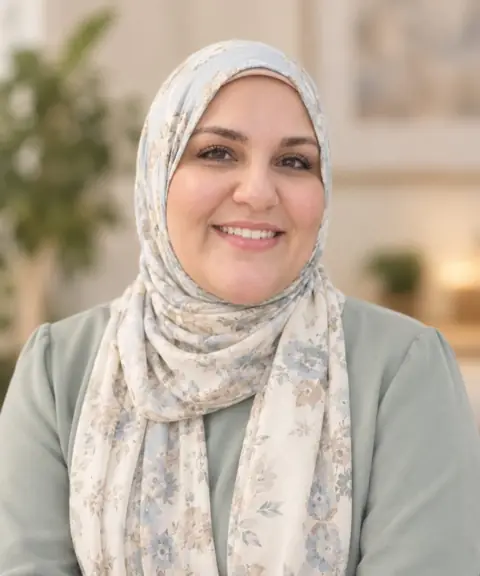
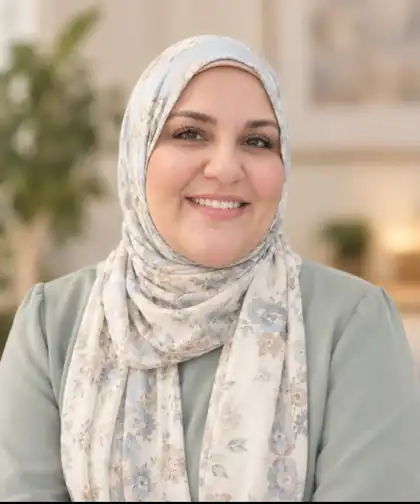
content: replace Dr Dina portrait across site

Changed region(s): [[0.0, 0.9821, 1.0, 1.0]]

diff --git a/app/page.tsx b/app/page.tsx
@@ -36,7 +36,7 @@ export default function Page(){
  <footer className="siteFooter unifiedFooter"><div className="unifiedFooterTop"><button className="unifiedFooterBrand" onClick={()=>go("home")}>ILAMA <em>BLOOM</em></button><nav aria-label="Footer"><button onClick={()=>go("learn")}>{ar?"استكشفي":"Explore"}</button><button onClick={()=>go("atlas")}>{ar?"أطلس الأكل":"Food Atlas"}</button><button onClick={()=>go("journal")}>{ar?"اليوميات":"Journal"}</button><button onClick={()=>go("about")}>{ar?"عن الموقع":"About"}</button></nav></div><div className="unifiedFooterBottom"><span>{ar?"أكل · جسم · سياق":"FOOD · BODY · CONTEXT"}</span><small>© 2026 ILAMA BLOOM</small><button onClick={()=>scrollTo({top:0,behavior:"smooth"})}>{ar?"للأعلى ↑":"BACK TO TOP ↑"}</button></div></footer></main>
 }
 function SiteMap({go,ar}:{go:(v:View)=>void;ar:boolean}){const groups:[string,[string,string,View][]][]=ar?[["استكشف",[["استكشف","تصفح أدلة الأكل والصحة","learn"],["الأطفال والألعاب","تعلّم الكربوهيدرات بطريقة مرحة","kids"],["دليل الأكل","مراجع لأكلات مصرية مألوفة","atlas"],["العدسة","احسب من بطاقة الطعام","lens"]]],["مساحتك",[["سجل سريع","احفظ حاجة تستحق تفتكرها","log"],["اليوميات","راجع اللي سجلته","journal"],["تجهيز الزيارة","جهّز المعلومات والأسئلة المفيدة","visit"]]],["عن ILAMA BLOOM",[["الرئيسية","ارجع للبداية","home"],["عن ILAMA BLOOM","الفكرة وراء ILAMA BLOOM","about"]]]]:[["DISCOVER",[["Explore","Browse food and health guides","learn"],["Kids & Games","Playful carbohydrate learning","kids"],["Food Atlas","Egyptian food references","atlas"],["Lens","Calculate from a food label","lens"]]],["YOUR SPACE",[["Quick Log","Save something worth remembering","log"],["Journal","Review what you saved","journal"],["Visit","Prepare useful context and questions","visit"]]],["ILAMA BLOOM",[["Home","Back to the start","home"],["About","The idea behind Ilama Bloom","about"]]]];return <section className="siteMapPage"><div className="siteMapHero"><small>{ar?"كل ILAMA BLOOM":"ALL OF ILAMA BLOOM"}</small><h1>{ar?<>كل حاجة،<br/><em>سهلة تلاقيها.</em></>:<>Everything,<br/><em>easy to find.</em></>}</h1><p>{ar?"روح مباشرة لأي جزء في ILAMA BLOOM.":"Jump directly to any part of Ilama Bloom."}</p></div><div className="siteMapGrid">{groups.map(([title,links])=><section key={title}><span>{title}</span>{links.map(([name,desc,to])=><button key={name} onClick={()=>go(to)}><b>{name}</b><p>{desc}</p><i>{ar?"←":"→"}</i></button>)}</section>)}</div></section>}
-function Home({go,entries,ar}:{go:(v:View)=>void;entries:Entry[];ar:boolean}){const last=entries[0];return <><section className="rootedHero"><div className="rootedHeroPhoto"><img src="https://images.pexels.com/photos/1640774/pexels-photo-1640774.jpeg?auto=compress&cs=tinysrgb&w=1600" alt="Fresh colorful food on a table"/></div><div className="rootedHeroCopy"><small>{ar?"تغذية للحياة الحقيقية":"NUTRITION FOR REAL LIFE"}</small><h1>{ar?<>ممكن فعلًا<br/><em>تفهمي أكلك.</em></>:<>Feel at home<br/><em>with food.</em></>}</h1><p>{ar?"Ilama Bloom مساحة هادئة تساعدك تفهمي التغذية، تتعرفي على الأكل المألوف، وتحفظي التفاصيل اللي تهمك من غير تعقيد.":"Ilama Bloom is a calmer place to understand nutrition, explore familiar food and keep the details that matter — without the noise."}</p><button onClick={()=>go("learn")}>{ar?"ابدئي الاستكشاف":"START EXPLORING"}</button></div></section><section className="rootedIntro"><small>{ar?"لو المعلومات الصحية حاساها كتير...":"IF HEALTH INFORMATION FEELS LIKE A LOT..."}</small><h2>{ar?<>مش محتاجة معلومات أكتر.<br/><em>محتاجة المعلومات تبقى أوضح.</em></>:<>You don't need more noise.<br/><em>You need a clearer way through it.</em></>}</h2><p>{ar?"بدل ما تبقي كل وجبة مسألة حسابية، بنقسم المعلومة لخطوات صغيرة: افهمي، قارني، سجلي اللي يهمك، وخديه معاكي لما تحتاجيه.":"Instead of turning every meal into a calculation, we break things into useful steps: understand, compare, remember what matters, and bring it with you when you need it."}</p></section><section className="rootedResults"><div className="rootedSectionHead"><small>{ar?"ILAMA BLOOM يساعدك على":"ILAMA BLOOM HELPS YOU"}</small><h2>{ar?"خلي الصحة أقرب للحياة اليومية.":"Make health feel more usable."}</h2></div><div className="rootedResultGrid"><button onClick={()=>go("learn")}><span>01</span><h3>{ar?"افهمي التغذية":"Understand nutrition"}</h3></button><button onClick={()=>go("atlas")}><span>02</span><h3>{ar?"اعرفي أكلك":"Know familiar food"}</h3></button><button onClick={()=>go("log")}><span>03</span><h3>{ar?"سجلي اللي يهمك":"Remember what matters"}</h3></button><button onClick={()=>go("kids")}><span>04</span><h3>{ar?"خلي التعلم ممتع":"Learn through play"}</h3></button><button onClick={()=>go("visit")}><span>05</span><h3>{ar?"جهزي للزيارة":"Prepare for visits"}</h3></button></div></section><section className="rootedWays"><div className="rootedRibbon">{ar?"• اختاري نقطة البداية • اختاري نقطة البداية •":"• FIND YOUR PLACE TO START • FIND YOUR PLACE TO START •"}</div><div className="rootedWayGrid"><article><img src="https://images.pexels.com/photos/1092730/pexels-photo-1092730.jpeg?auto=compress&cs=tinysrgb&w=1000" alt="Fresh fruit"/><small>{ar?"01 · استكشفي":"01 · EXPLORE"}</small><h3>{ar?"تعلمي من غير دوشة.":"Nutrition, made readable."}</h3><p>{ar?"موضوعات واضحة عن الأكل والكربوهيدرات والمصطلحات الصحية اليومية.":"Clear guides for food, carbohydrates and everyday health language."}</p><button onClick={()=>go("learn")}>{ar?"استكشفي":"EXPLORE"} →</button></article><article><img src="https://images.pexels.com/photos/1640770/pexels-photo-1640770.jpeg?auto=compress&cs=tinysrgb&w=1000" alt="Everyday meal ingredients"/><small>{ar?"02 · أطلس الأكل":"02 · FOOD ATLAS"}</small><h3>{ar?"ابدئي بالأكل اللي تعرفيه.":"Start with food you know."}</h3><p>{ar?"أطعمة مألوفة وكميات وسياق يساعدك تفهمي الطبق الحقيقي قدامك.":"Familiar foods, portions and context for the plate actually in front of you."}</p><button onClick={()=>go("atlas")}>{ar?"افتحي الأطلس":"OPEN THE ATLAS"} →</button></article><article><img src="https://images.pexels.com/photos/4050990/pexels-photo-4050990.jpeg?auto=compress&cs=tinysrgb&w=1000" alt="Journal and healthy lifestyle"/><small>{ar?"03 · يومك":"03 · YOUR DAY"}</small><h3>{ar?"مش لازم تفتكري كل حاجة.":"Your memory can take a break."}</h3><p>{ar?"سجلي الوجبات والمياه والنوم والأسئلة والتفاصيل اللي تحبي ترجعي لها.":"Keep meals, water, sleep, questions and useful details together."}</p><button onClick={()=>go("log")}>{ar?"سجلي حاجة":"LOG SOMETHING"} →</button></article></div></section><section className="rootedFounder"><div className="rootedFounderPhoto"><img src="/dina-hassan-about.webp?v=1" alt="Dr. Dina Hassan"/></div><div className="rootedFounderCopy"><small>{ar?"قابلي د. دينا":"MEET DR. DINA"}</small><h2>{ar?<>القلب الطبي<br/><em>وراء Ilama Bloom.</em></>:<>The clinical heart<br/><em>behind Ilama Bloom.</em></>}</h2><p>{ar?"د. دينا حسن، طبيبة أطفال وتغذية علاجية، تركيزها إن المعرفة الصحية تبقى مفهومة وعملية وقريبة من حياة الأسرة الحقيقية.":"Dr. Dina Hassan is a pediatrician and clinical nutritionist focused on making health education understandable, practical and closer to real family life."}</p><button onClick={()=>go("about")}>{ar?"اعرفي أكتر":"MEET DINA"} →</button></div></section><section className="rootedDaily"><div><small>{ar?"مساحتك اليومية":"YOUR EVERYDAY SPACE"}</small><h2>{ar?"خلي التفاصيل في مكان واحد.":"Keep the useful details together."}</h2><p>{last?(ar?`آخر حاجة اتسجلت: ${last.type} · ${last.value}`:`Last logged: ${last.type} · ${last.value}`):(ar?"ابدئي بسجل صغير، وارجعي له وقت ما تحتاجيه.":"Start with one small note and come back when you need it.")}</p></div><div><button onClick={()=>go("log")}>{ar?"＋ سجل سريع":"＋ QUICK LOG"}</button><button onClick={()=>go("journal")}>{ar?"اليوميات":"JOURNAL"}</button><button onClick={()=>go("visit")}>{ar?"تجهيز الزيارة":"VISIT PREP"}</button></div></section><section className="rootedFinal"><small>{ar?"جاهزة تبدأي؟":"READY WHEN YOU ARE"}</small><h2>{ar?<>خطوة صغيرة<br/><em>تفرق في يومك.</em></>:<>One small step.<br/><em>A clearer day.</em></>}</h2><p>{ar?"ابدئي من الأكل، أو من معلومة، أو من حاجة عاوزة تفتكريها.":"Start with food, a question, or one detail you want to remember."}</p><button onClick={()=>go("learn")}>{ar?"ابدئي هنا":"START HERE"}</button></section></>}
+function Home({go,entries,ar}:{go:(v:View)=>void;entries:Entry[];ar:boolean}){const last=entries[0];return <><section className="rootedHero"><div className="rootedHeroPhoto"><img src="https://images.pexels.com/photos/1640774/pexels-photo-1640774.jpeg?auto=compress&cs=tinysrgb&w=1600" alt="Fresh colorful food on a table"/></div><div className="rootedHeroCopy"><small>{ar?"تغذية للحياة الحقيقية":"NUTRITION FOR REAL LIFE"}</small><h1>{ar?<>ممكن فعلًا<br/><em>تفهمي أكلك.</em></>:<>Feel at home<br/><em>with food.</em></>}</h1><p>{ar?"Ilama Bloom مساحة هادئة تساعدك تفهمي التغذية، تتعرفي على الأكل المألوف، وتحفظي التفاصيل اللي تهمك من غير تعقيد.":"Ilama Bloom is a calmer place to understand nutrition, explore familiar food and keep the details that matter — without the noise."}</p><button onClick={()=>go("learn")}>{ar?"ابدئي الاستكشاف":"START EXPLORING"}</button></div></section><section className="rootedIntro"><small>{ar?"لو المعلومات الصحية حاساها كتير...":"IF HEALTH INFORMATION FEELS LIKE A LOT..."}</small><h2>{ar?<>مش محتاجة معلومات أكتر.<br/><em>محتاجة المعلومات تبقى أوضح.</em></>:<>You don't need more noise.<br/><em>You need a clearer way through it.</em></>}</h2><p>{ar?"بدل ما تبقي كل وجبة مسألة حسابية، بنقسم المعلومة لخطوات صغيرة: افهمي، قارني، سجلي اللي يهمك، وخديه معاكي لما تحتاجيه.":"Instead of turning every meal into a calculation, we break things into useful steps: understand, compare, remember what matters, and bring it with you when you need it."}</p></section><section className="rootedResults"><div className="rootedSectionHead"><small>{ar?"ILAMA BLOOM يساعدك على":"ILAMA BLOOM HELPS YOU"}</small><h2>{ar?"خلي الصحة أقرب للحياة اليومية.":"Make health feel more usable."}</h2></div><div className="rootedResultGrid"><button onClick={()=>go("learn")}><span>01</span><h3>{ar?"افهمي التغذية":"Understand nutrition"}</h3></button><button onClick={()=>go("atlas")}><span>02</span><h3>{ar?"اعرفي أكلك":"Know familiar food"}</h3></button><button onClick={()=>go("log")}><span>03</span><h3>{ar?"سجلي اللي يهمك":"Remember what matters"}</h3></button><button onClick={()=>go("kids")}><span>04</span><h3>{ar?"خلي التعلم ممتع":"Learn through play"}</h3></button><button onClick={()=>go("visit")}><span>05</span><h3>{ar?"جهزي للزيارة":"Prepare for visits"}</h3></button></div></section><section className="rootedWays"><div className="rootedRibbon">{ar?"• اختاري نقطة البداية • اختاري نقطة البداية •":"• FIND YOUR PLACE TO START • FIND YOUR PLACE TO START •"}</div><div className="rootedWayGrid"><article><img src="https://images.pexels.com/photos/1092730/pexels-photo-1092730.jpeg?auto=compress&cs=tinysrgb&w=1000" alt="Fresh fruit"/><small>{ar?"01 · استكشفي":"01 · EXPLORE"}</small><h3>{ar?"تعلمي من غير دوشة.":"Nutrition, made readable."}</h3><p>{ar?"موضوعات واضحة عن الأكل والكربوهيدرات والمصطلحات الصحية اليومية.":"Clear guides for food, carbohydrates and everyday health language."}</p><button onClick={()=>go("learn")}>{ar?"استكشفي":"EXPLORE"} →</button></article><article><img src="https://images.pexels.com/photos/1640770/pexels-photo-1640770.jpeg?auto=compress&cs=tinysrgb&w=1000" alt="Everyday meal ingredients"/><small>{ar?"02 · أطلس الأكل":"02 · FOOD ATLAS"}</small><h3>{ar?"ابدئي بالأكل اللي تعرفيه.":"Start with food you know."}</h3><p>{ar?"أطعمة مألوفة وكميات وسياق يساعدك تفهمي الطبق الحقيقي قدامك.":"Familiar foods, portions and context for the plate actually in front of you."}</p><button onClick={()=>go("atlas")}>{ar?"افتحي الأطلس":"OPEN THE ATLAS"} →</button></article><article><img src="https://images.pexels.com/photos/4050990/pexels-photo-4050990.jpeg?auto=compress&cs=tinysrgb&w=1000" alt="Journal and healthy lifestyle"/><small>{ar?"03 · يومك":"03 · YOUR DAY"}</small><h3>{ar?"مش لازم تفتكري كل حاجة.":"Your memory can take a break."}</h3><p>{ar?"سجلي الوجبات والمياه والنوم والأسئلة والتفاصيل اللي تحبي ترجعي لها.":"Keep meals, water, sleep, questions and useful details together."}</p><button onClick={()=>go("log")}>{ar?"سجلي حاجة":"LOG SOMETHING"} →</button></article></div></section><section className="rootedFounder"><div className="rootedFounderPhoto"><img src="/dina-hassan-about.webp?v=2" alt="Dr. Dina Hassan"/></div><div className="rootedFounderCopy"><small>{ar?"قابلي د. دينا":"MEET DR. DINA"}</small><h2>{ar?<>القلب الطبي<br/><em>وراء Ilama Bloom.</em></>:<>The clinical heart<br/><em>behind Ilama Bloom.</em></>}</h2><p>{ar?"د. دينا حسن، طبيبة أطفال وتغذية علاجية، تركيزها إن المعرفة الصحية تبقى مفهومة وعملية وقريبة من حياة الأسرة الحقيقية.":"Dr. Dina Hassan is a pediatrician and clinical nutritionist focused on making health education understandable, practical and closer to real family life."}</p><button onClick={()=>go("about")}>{ar?"اعرفي أكتر":"MEET DINA"} →</button></div></section><section className="rootedDaily"><div><small>{ar?"مساحتك اليومية":"YOUR EVERYDAY SPACE"}</small><h2>{ar?"خلي التفاصيل في مكان واحد.":"Keep the useful details together."}</h2><p>{last?(ar?`آخر حاجة اتسجلت: ${last.type} · ${last.value}`:`Last logged: ${last.type} · ${last.value}`):(ar?"ابدئي بسجل صغير، وارجعي له وقت ما تحتاجيه.":"Start with one small note and come back when you need it.")}</p></div><div><button onClick={()=>go("log")}>{ar?"＋ سجل سريع":"＋ QUICK LOG"}</button><button onClick={()=>go("journal")}>{ar?"اليوميات":"JOURNAL"}</button><button onClick={()=>go("visit")}>{ar?"تجهيز الزيارة":"VISIT PREP"}</button></div></section><section className="rootedFinal"><small>{ar?"جاهزة تبدأي؟":"READY WHEN YOU ARE"}</small><h2>{ar?<>خطوة صغيرة<br/><em>تفرق في يومك.</em></>:<>One small step.<br/><em>A clearer day.</em></>}</h2><p>{ar?"ابدئي من الأكل، أو من معلومة، أو من حاجة عاوزة تفتكريها.":"Start with food, a question, or one detail you want to remember."}</p><button onClick={()=>go("learn")}>{ar?"ابدئي هنا":"START HERE"}</button></section></>}
 function Learn({go,ar}:{go:(v:View)=>void;ar:boolean}){type Guide={id:string;eyebrow_en:string;eyebrow_ar:string;title_en:string;title_ar:string;body_en:string;body_ar:string;practical_en:string;practical_ar:string};const [q,setQ]=useState(""),[active,setActive]=useState<string|null>(null),[dbGuides,setDbGuides]=useState<Guide[]>([]),[source,setSource]=useState<"database"|"fallback"|"loading">("loading");useEffect(()=>{let alive=true;fetch("/api/learning-guides").then(r=>r.ok?r.json():null).then(data=>{if(!alive)return;if(Array.isArray(data?.guides)&&data.guides.length){setDbGuides(data.guides);setSource(data.source==="database"?"database":"fallback")}else setSource("fallback")}).catch(()=>alive&&setSource("fallback"));return()=>{alive=false}},[]);const fallback:Guide[]=[{id:"carbs",eyebrow_en:"CARBS",eyebrow_ar:"كربوهيدرات",title_en:"Carbohydrates, without the drama.",title_ar:"الكربوهيدرات من غير تعقيد.",body_en:"Start with what the food contains and the portion.",body_ar:"ابدأ بمكونات الأكل والكمية.",practical_en:"Bread, rice, fruit, milk and legumes can contribute carbohydrate.",practical_ar:"العيش والأرز والفاكهة واللبن والبقوليات ممكن تضيف كربوهيدرات."}];const records=dbGuides.length?dbGuides:fallback;const guides=records.map(g=>({id:g.id,eyebrow:ar?g.eyebrow_ar:g.eyebrow_en,title:ar?g.title_ar:g.title_en,body:ar?g.body_ar:g.body_en,practical:ar?g.practical_ar:g.practical_en}));const needle=q.trim().toLowerCase();const shown=guides.filter(g=>[g.eyebrow,g.title,g.body,g.practical].join(" ").toLowerCase().includes(needle));return <section className="page"><div className="pageHero"><small>{ar?"استكشف":"EXPLORE"}</small><h1>{ar?<>وصل للمعلومة<br/><em>من غير دوشة.</em></>:<>Find the answer<br/><em>without the noise.</em></>}</h1><p>{ar?"اختار نقطة بداية أو ابحث بكلمات بسيطة.":"Choose a starting point or search in plain language."}</p><div className="topicSearch"><span>⌕</span><input aria-label={ar?"ابحث في الموضوعات":"Search topics"} value={q} onChange={e=>setQ(e.target.value)} placeholder={ar?"جرّب: كربوهيدرات، أكل، تحاليل...":"Try carbs, food, labs..."}/>{q&&<button aria-label={ar?"امسح البحث":"Clear search"} onClick={()=>setQ("")}>×</button>}</div></div><div className="exploreStarts"><button type="button" onClick={()=>setQ(ar?"كربوهيدرات":"carb")}>{ar?"🍞 كربوهيدرات":"🍞 Carbs"}</button><button type="button" onClick={()=>setQ(ar?"أكل":"food")}>{ar?"🥗 أكل يومي":"🥗 Everyday food"}</button><button type="button" onClick={()=>setQ(ar?"تحاليل":"labs")}>{ar?"🧪 تحاليل":"🧪 Labs"}</button><button type="button" onClick={()=>go("kids")}>{ar?"أطفال":"Kids"}</button></div><div className="resultMeta" aria-live="polite">{q?(ar?`${shown.length} نتيجة`:`${shown.length} result${shown.length===1?"":"s"}`):(ar?`${guides.length} أدلة`:`${guides.length} guides`)} · {source==="database"?(ar?"مكتبة محدثة":"live library"):(ar?"وضع احتياطي":"fallback")}</div><div className="libraryGrid">{shown.length?shown.map((g,i)=><article className={active===g.id?"opened":""} key={g.id}><span>0{i+1}</span><small>{g.eyebrow}</small><h2>{g.title}</h2><p>{g.body}</p>{active===g.id&&<div className="guideDetail"><b>{ar?"خلّيه عملي":"Make it practical"}</b><p>{g.practical}</p></div>}<button aria-expanded={active===g.id} onClick={()=>setActive(active===g.id?null:g.id)}>{active===g.id?(ar?"اقفل ↑":"Close ↑"):(ar?"افتح الدليل →":"Open guide →")}</button></article>):<div className="empty emptyState"><b>{ar?"مفيش دليل مطابق.":"No guide found."}</b><p>{ar?"جرّب كلمات زي أكل أو كربوهيدرات أو تحاليل.":"Try “food”, “carbs” or “labs”."}</p><button onClick={()=>setQ("")}>{ar?"اعرض كل الأدلة":"Show all guides"}</button></div>}</div><div className="exploreBridge"><div><small>{ar?"خليه مفيد":"MAKE IT USEFUL"}</small><h2>{ar?"التعلّم بيكون أسهل لما تفتكر السياق.":"Learning is better when you can remember the context."}</h2></div><button onClick={()=>go("log")}>{ar?"سجّل حاجة ←":"Log something →"}</button></div></section>}
 
 function Lens({add,go,ar}:{add:(t:string,v:string)=>void;go:(v:View)=>void;ar:boolean}){const [serving,setServing]=useState("30"),[carbs,setCarbs]=useState(""),[basis,setBasis]=useState("100"),[saved,setSaved]=useState(false);const result=useMemo(()=>{if(!carbs.trim()||!serving.trim()||!basis.trim())return null;const a=Number(carbs),b=Number(serving),c=Number(basis);return Number.isFinite(a)&&Number.isFinite(b)&&Number.isFinite(c)&&a>=0&&b>0&&c>0?a*b/c:null},[carbs,serving,basis]);const remember=()=>{if(result===null)return;add("Food label",`Label: ${carbs} g carbohydrate per ${basis} g; portion ${serving} g ≈ ${result.toFixed(1)} g carbohydrate`);setSaved(true)};return <section className="page lensPage"><div className="pageHero compactHero"><small>{ar?"عدسة ILAMA BLOOM · بطاقة الطعام":"ILAMA BLOOM LENS · LABEL MODE"}</small><h1>{ar?<>حوّل البطاقة<br/><em>لمعلومة مفهومة.</em></>:<>Turn a label into<br/><em>something readable.</em></>}</h1><p>{ar?"اكتب الأرقام الموجودة على العبوة. ILAMA BLOOM يحسب الكمية فقط.":"Enter the numbers printed on the pack. Ilama Bloom does the portion arithmetic — nothing more."}</p></div><div className="lensLayout"><div className="lensCard"><div className="lensStep"><span>1</span><div><b>{ar?"الكربوهيدرات على البطاقة":"Label carbohydrate"}</b><small>{ar?"استخدم إجمالي الكربوهيدرات، مش السكريات.":"Use “Total Carbohydrate”, not sugars."}</small></div></div><label>{ar?"الكربوهيدرات":"Carbohydrate"} <div><input inputMode="decimal" value={carbs} onChange={e=>setCarbs(e.target.value)} placeholder="e.g. 68"/><span>g</span></div></label><label>{ar?"أساس البطاقة":"Label basis"} <div><input inputMode="decimal" value={basis} onChange={e=>setBasis(e.target.value)} /><span>g</span></div></label><div className="lensStep"><span>2</span><div><b>{ar?"الكميّة بتاعتك":"Your portion"}</b><small>{ar?"اكتب الكمية اللي عاوز تحسبها.":"Enter the amount you plan to use for the calculation."}</small></div></div><label>{ar?"الكمية":"Portion"} <div><input inputMode="decimal" value={serving} onChange={e=>setServing(e.target.value)} /><span>g</span></div></label></div><div className="lensResult"><small>{ar?"للكمية دي":"FOR THIS PORTION"}</small>{result!==null&&carbs!==""?<><strong>{result.toFixed(1)}<i>g</i></strong><h2>{ar?"كربوهيدرات":"carbohydrate"}</h2><p>{carbs} g × {serving} g ÷ {basis} g</p><button onClick={remember}>{saved?(ar?"✓ اتحفظ في اليوميات":"✓ Saved to journal"):(ar?"افتكر ده":"Remember this")}</button></>:<><strong>—</strong><h2>{ar?"اكتب قيم البطاقة":"Enter the label values"}</h2></>}<button className="textAction" onClick={()=>go("atlas")}>{ar?"استكشف الأكل المصري ←":"Explore Egyptian foods →"}</button></div></div><div className="lensNote"><b>{ar?"العدسة بتعمل إيه؟":"What Lens does"}</b><p>{ar?"بتحسب من الأرقام اللي انت بتدخلها. الوصفات والكميات والبطاقات بتختلف؛ العدسة لا تحسب الإنسولين أو الدواء أو قرارات العلاج.":"It calculates from the numbers you enter. Recipes, serving sizes and labels differ; Lens does not estimate insulin, medication or treatment."}</p></div></section>}
@@ -51,6 +51,6 @@ function Kids({ar,setAr,saveProgress}:{ar:boolean;setAr:(v:boolean)=>void;savePr
 function Log({add,go,ar}:{add:(t:string,v:string)=>void;go:(v:View)=>void;ar:boolean}){const [type,setType]=useState("Meal"),[value,setValue]=useState("");const types=[["Meal","🍽"],["Water","💧"],["Sleep","🌙"],["Medication","💊"],["Work / activity","🏃"],["Smoking","🚭"],["Condition","🩺"],["Previous operation","🏥"],["Feeling","🙂"],["Measurement","📏"],["Note","✎"]];const presets:{[k:string]:string[]}={"Meal":["Breakfast","Lunch","Dinner","Snack"],"Water":["1 glass","2 glasses","3 glasses"],"Sleep":["5 hours","6 hours","7 hours","8 hours"],"Smoking":["No","Yes"],"Feeling":["Good","Okay","Low energy"],"Work / activity":["Desk day","Active day","Exercise"]};const options=presets[type]||[];return <section className="page logPage"><div className="pageHero compactHero"><small>{ar?"سجل سريع":"QUICK LOG"}</small><h1>{ar?"افتكر حاجة واحدة.":"Remember one thing."}</h1><p>{ar?"من غير استبيان. اختار نوع، اكتب المهم، واحفظ.":"No questionnaire. Pick a category, add what matters, save."}</p></div><div className="logBox newLog"><div className="logProgress"><span className="done">1</span><i></i><span className={type?"done":""}>2</span><i></i><span className={value.trim()?"done":""}>3</span></div><p className="logHint">{ar?"بتسجل إيه؟":"What are you logging?"}</p><div className="typeTiles">{types.map(([x,icon])=><button className={type===x?"on":""} onClick={()=>{setType(x);setValue("")}} key={x}><b>{icon}</b><span>{ar?(typeLabels[x]||x):x}</span></button>)}</div>{options.length>0&&<><p className="logHint second">{ar?"اختيار سريع":"Quick pick"}</p><div className="quickPicks">{options.map(x=><button className={value===x?"on":""} onClick={()=>setValue(x)} key={x}>{ar?({Breakfast:"الفطار",Lunch:"الغدا",Dinner:"العشا",Snack:"سناك","1 glass":"كوباية","2 glasses":"كوبايتين","3 glasses":"3 كوبايات","5 hours":"5 ساعات","6 hours":"6 ساعات","7 hours":"7 ساعات","8 hours":"8 ساعات",No:"لأ",Yes:"آه",Good:"كويس",Okay:"ماشي","Low energy":"طاقة قليلة","Desk day":"يوم مكتب","Active day":"يوم حركة",Exercise:"تمرين"}[x]||x):x}</button>)}</div></>}<label className="logDetail"><span>{options.length?(ar?"ضيف تفصيلة لو مفيدة":"Add a detail if useful"):(ar?"ضيف التفاصيل":"Add the detail")}</span><textarea maxLength={180} value={value} onChange={e=>setValue(e.target.value)} placeholder={ar?"إيه اللي عاوز تفتكره عن "+(typeLabels[type]||type)+"؟":"What do you want to remember about "+type.toLowerCase()+"?"}/><small>{value.length}/180</small></label><p className="storageHint">{ar?"عند تسجيل الدخول، السجل بيتحفظ في حسابك ويظهر لك لما ترجع. تقدر تمسح اليوميات في أي وقت.":"When signed in, your log is saved to your account and loads again when you return. You can clear the journal at any time."}</p><div className="logActions"><button className="quiet" onClick={()=>go("journal")}>{ar?"إلغاء":"Cancel"}</button><button disabled={!value.trim()} className="save" onClick={()=>{if(!value.trim())return;add(type,value.trim().slice(0,180));setValue("");go("journal")}}>{ar?"احفظ في اليوميات ←":"Save to journal →"}</button></div></div></section>}
 function Journal({entries,go,clearEntries,removeEntry,updateEntry,undoEntry,undoRemove,ar}:{entries:Entry[];go:(v:View)=>void;clearEntries:()=>void;removeEntry:(at:string)=>void;updateEntry:(at:string,value:string)=>void;undoEntry:Entry|null;undoRemove:()=>void;ar:boolean}){const [confirmClear,setConfirmClear]=useState(false),[filter,setFilter]=useState("All"),[editing,setEditing]=useState<string|null>(null),[draft,setDraft]=useState("");const types=["All",...Array.from(new Set(entries.map(e=>e.type)))];const filtered=filter==="All"?entries:entries.filter(e=>e.type===filter);const grouped=filtered.reduce((a,e)=>{const d=new Date(e.at).toLocaleDateString(undefined,{weekday:"short",month:"short",day:"numeric"});(a[d]??=[]).push(e);return a},{} as Record<string,Entry[]>);return <section className="page"><div className="pageHero compactHero"><small>{ar?"يومياتك":"YOUR JOURNAL"}</small><h1>{ar?<>يومك،<br/><em>من غير ورق كتير.</em></>:<>Your day,<br/><em>without the paperwork.</em></>}</h1><p>{ar?"خط زمني بسيط للحاجات اللي اخترت تفتكرها.":"A factual timeline of what you chose to remember."}</p></div>{undoEntry&&<div className="confirmBar" role="status"><span>{ar?"تم حذف السجل.":"Entry deleted."}</span><button onClick={undoRemove}>{ar?"تراجع":"Undo"}</button></div>}{entries.length>0&&<div className="journalFilters" aria-label={ar?"فلترة اليوميات":"Filter journal"}>{types.map(x=><button className={filter===x?"on":""} onClick={()=>setFilter(x)} key={x}>{ar?(x==="All"?"الكل":(typeLabels[x]||x)):x}</button>)}</div>}<div className="journalTools"><div><b>{ar?"محفوظ في حسابك":"Saved to your account"}</b><span>{ar?"عند تسجيل الدخول، يومياتك بتتحفظ في حسابك وتظهر لك من جديد بعد تسجيل الدخول.":"When signed in, your journal is saved to your account and loads again when you return."}</span></div><button onClick={()=>go("log")}>{ar?"＋ أضف سجل":"＋ Add entry"}</button>{entries.length>0&&<button className="dangerQuiet" onClick={()=>setConfirmClear(true)}>{ar?"امسح اليوميات":"Clear journal"}</button>}</div>{confirmClear&&<div className="confirmBar" role="alert"><span>{ar?"تمسح كل سجلات اليوميات من حسابك؟":"Clear all journal entries from your account?"}</span><button onClick={()=>setConfirmClear(false)}>{ar?"خليها":"Keep them"}</button><button className="danger" onClick={()=>{clearEntries();setConfirmClear(false)}}>{ar?"امسح الكل":"Clear all"}</button></div>}<div className="journal">{entries.length===0?<div className="empty emptyState"><b>{ar?"مفيش حاجة جديدة.":"Nothing to catch up on."}</b><p>{ar?"لما تلاقي حاجة تستحق التذكر، سجّلها في ثواني من التسجيل السريع.":"When something feels worth remembering, add it in a few seconds from Log."}</p></div>:Object.entries(grouped).map(([day,list])=><section className="journalDay" key={day}><h2>{day}<span>{list.length} {ar?(list.length===1?"سجل":"سجلات"):(list.length===1?"entry":"entries")}</span></h2>{list.map(e=><article key={e.at}><time>{new Date(e.at).toLocaleTimeString([],{hour:"2-digit",minute:"2-digit"})}</time><div>{editing===e.at?<><small>{ar?(typeLabels[e.type]||e.type):e.type}</small><textarea maxLength={180} value={draft} onChange={x=>setDraft(x.target.value)} aria-label={ar?`تعديل سجل ${typeLabels[e.type]||e.type}`:`Edit ${e.type} entry`}/><small>{draft.length}/180</small><div className="entryEditActions"><button onClick={()=>{setEditing(null);setDraft("")}}>{ar?"إلغاء":"Cancel"}</button><button disabled={!draft.trim()} onClick={()=>{updateEntry(e.at,draft);setEditing(null);setDraft("")}}>{ar?"حفظ":"Save"}</button></div></>:<><small>{ar?(typeLabels[e.type]||e.type):e.type}</small><h3>{e.value}</h3></>}</div>{editing!==e.at&&<div className="entryActions"><button aria-label={ar?`تعديل سجل ${typeLabels[e.type]||e.type}`:`Edit ${e.type} entry`} onClick={()=>{setEditing(e.at);setDraft(e.value)}}>{ar?"تعديل":"Edit"}</button><button className="entryDelete" aria-label={ar?`حذف سجل ${typeLabels[e.type]||e.type}`:`Delete ${e.type} entry`} onClick={()=>removeEntry(e.at)}>×</button></div>}</article>)}</section>)}</div></section>}
 function Visit({entries,add,ar}:{entries:Entry[];add:(t:string,v:string)=>void;ar:boolean}){const [days,setDays]=useState(7),[copied,setCopied]=useState(false),[question,setQuestion]=useState("");const recent=useMemo(()=>entries.filter(e=>Date.now()-new Date(e.at).getTime()<days*86400000),[entries,days]);const questions=recent.filter(e=>e.type==="Question for visit");const context=recent.filter(e=>e.type!=="Question for visit");const types=Array.from(new Set(context.map(e=>e.type)));const byType=types.map(t=>[t,context.filter(e=>e.type===t).length] as [string,number]);const shownType=(t:string)=>ar?(typeLabels[t]||t):t;const copySummary=async()=>{const text=[ar?"Ilama Bloom — ملخص الزيارة":"Ilama Bloom — visit summary",ar?`آخر ${days} أيام · ${context.length} سجلات سياق · ${questions.length} أسئلة`:`Last ${days} days · ${context.length} context entries · ${questions.length} questions`,...context.slice(0,15).map(e=>`${new Date(e.at).toLocaleDateString()}: ${shownType(e.type)} — ${e.value}`),...(questions.length?["","أسئلة تاخدها معاك:",...questions.slice(0,10).map(e=>`• ${e.value}`)]:[])].join("\\n");try{await navigator.clipboard.writeText(text);setCopied(true);setTimeout(()=>setCopied(false),1800)}catch{}};return <section className="page visit"><div className="pageHero compactHero"><small>{ar?"تجهيز الزيارة":"VISIT PREP"}</small><h1>{ar?<>خد معاك السياق،<br/><em>مش اختبار للذاكرة.</em></>:<>Bring context,<br/><em>not a memory test.</em></>}</h1><p>{ar?"ملخص مختصر مبني فقط على اللي انت سجلته.":"A compact summary made only from what you recorded."}</p></div><div className="rangeSwitch"><span>{ar?"اعرض":"Show"}</span>{[7,14,30].map(n=><button className={days===n?"on":""} onClick={()=>setDays(n)} key={n}>{n} {ar?"يوم":"days"}</button>)}</div><div className="visitOverview"><div><small>{ar?"السجلات":"ENTRIES"}</small><b>{recent.length}</b></div><div><small>{ar?"المجالات":"AREAS"}</small><b>{types.length}</b></div><div><small>{ar?"الفترة":"WINDOW"}</small><b>{days}d</b></div></div>{recent.length>0&&<div className="visitActions"><button onClick={copySummary}>{copied?(ar?"✓ تم النسخ":"✓ Copied"):(ar?"انسخ ملخص الزيارة":"Copy visit summary")}</button><span aria-live="polite">{copied?(ar?"جاهز للصق.":"Ready to paste."):(ar?"نص بسيط من سجلاتك فقط.":"Plain text from your entries only.")}</span></div>}{questions.length>0&&<section className="savedQuestions"><div><small>{ar?"أسئلتك":"YOUR QUESTIONS"}</small><h2>{ar?"أسئلة تاخدها معاك":"Questions to bring with you"}</h2></div>{questions.map(q=><p key={q.at}><span>?</span>{q.value}</p>)}</section>}<div className="visitSheet upgraded"><aside><span>{ar?"في لمحة":"AT A GLANCE"}</span>{byType.length?byType.map(([t,n])=><p key={t}><b>{shownType(t)}</b><i>{n}</i></p>):<p>{ar?"مفيش سجلات في الفترة دي.":"No entries in this period."}</p>}</aside><div><h2>{ar?"السياق الأخير":"Recent context"}</h2>{context.slice(0,15).map((e,i)=><p className="visitFact" key={i}><b>{shownType(e.type)}</b><span>{e.value}</span><small>{new Date(e.at).toLocaleDateString(undefined,{month:"short",day:"numeric"})}</small></p>)}{!context.length&&<div className="emptyState"><b>{ar?"الملخص فاضي.":"Your summary is empty."}</b><p>{ar?"استخدم التسجيل للحاجات اللي عاوز ترجع لها بعدين.":"Use Log only for details you want available later."}</p></div>}</div></div><div className="questionPocket"><div><small>{ar?"جيب الأسئلة":"QUESTION POCKET"}</small><h2>{ar?"احفظ السؤال قبل ما تنساه.":"Save it before you forget it."}</h2><p>{ar?"خلي أسئلتك مع اليوميات عشان تظهر في ملخص الزيارة.":"Keep questions with your journal so they appear in the visit story."}</p></div><div><input maxLength={180} value={question} onChange={e=>setQuestion(e.target.value)} placeholder={ar?"أنا عاوز أسأل عن إيه؟":"What do I want to ask?"} aria-label={ar?"سؤال للزيارة":"Question for my visit"}/><button disabled={!question.trim()} onClick={()=>{add("Question for visit",question.trim().slice(0,180));setQuestion("")}}>{ar?"احفظ السؤال":"Save question"}</button></div></div><div className="visitQuestions"><small>{ar?"قبل ما تروح":"BEFORE YOU GO"}</small><h2>{ar?"3 أسئلة مفيدة":"Three useful prompts"}</h2><div><p><b>01</b><span>{ar?"إيه اللي اتغير من آخر زيارة؟":"What changed since my last visit?"}</span></p><p><b>02</b><span>{ar?"إيه اللي محتاج أفهمه بشكل أوضح؟":"What do I want explained clearly?"}</span></p><p><b>03</b><span>{ar?"إيه التقارير أو أسماء الأدوية اللي محتاج آخدها؟":"What reports or medication names should I bring?"}</span></p></div></div><div className="visitNote"><b>{ar?"خلي الملخص واقعي":"Keep the summary factual"}</b><p>{ar?"الصفحة بتنظم بس اللي انت دخلته. مش بتشخّص أو تفسّر النتائج أو توصي بعلاج.":"This page organizes only what you entered. It does not diagnose, interpret results, or recommend treatment."}</p></div></section>}
-function About({ar}:{ar:boolean}){return <section className="about aboutNew"><div className="aboutIntro"><small>{ar?"عن ILAMA BLOOM":"ABOUT ILAMA BLOOM"}</small><h1>{ar?<>معلومات صحية،<br/><em>بلغة إنسانية.</em></>:<>Health information,<br/><em>made human.</em></>}</h1><p>{ar?"اتعمل ILAMA BLOOM على فكرة بسيطة: معلومات التغذية والصحة اليومية لازم تكون أسهل في الفهم والتذكر والنقاش الحقيقي.":"Ilama Bloom was created around a simple idea: everyday nutrition and health information should be easier to understand, remember and bring into real conversations."}</p><div className="aboutFlow"><span><b>01</b>{ar?"افهم":"Understand"}</span><i>{ar?"←":"→"}</i><span><b>02</b>{ar?"افتكر":"Remember"}</span><i>{ar?"←":"→"}</i><span><b>03</b>{ar?"ناقش":"Discuss"}</span></div></div><div className="founderCard"><div className="founderPortrait"><img src="/dina-hassan-about.webp?v=1" alt="Dr. Dina Hassan" loading="lazy" decoding="async"/></div><div className="founderCopy"><small>{ar?"المؤسسة · الصوت الطبي":"FOUNDER · CLINICAL VOICE"}</small><h2>{ar?"د. دينا حسن":"Dr. Dina Hassan"}</h2><h3>{ar?"طبيبة أطفال وتغذية علاجية":"Pediatrician & Clinical Nutritionist"}</h3><div className="credentialPills"><span>MRCPCH</span><span>{ar?"دبلومة التغذية العلاجية · NNI":"Diploma in Clinical Nutrition · NNI"}</span></div><p>{ar?"تركيزها على التثقيف الصحي العملي والمفهوم للحياة اليومية، وتحويل المعرفة الطبية لمعلومات تقدر الأسر تستخدمها فعلًا.":"Her focus is practical, understandable health education for everyday life — translating clinical knowledge into information families can actually use."}</p><div className="founderPrinciples"><span><b>{ar?"واضح":"Clear"}</b>{ar?"لغة بسيطة أولًا":"Plain language first"}</span><span><b>{ar?"عملي":"Practical"}</b>{ar?"مبني على الحياة الحقيقية":"Built around real life"}</span><span><b>{ar?"إنساني":"Human"}</b>{ar?"السياق قبل الحكم":"Context before judgement"}</span></div></div></div></section>}
+function About({ar}:{ar:boolean}){return <section className="about aboutNew"><div className="aboutIntro"><small>{ar?"عن ILAMA BLOOM":"ABOUT ILAMA BLOOM"}</small><h1>{ar?<>معلومات صحية،<br/><em>بلغة إنسانية.</em></>:<>Health information,<br/><em>made human.</em></>}</h1><p>{ar?"اتعمل ILAMA BLOOM على فكرة بسيطة: معلومات التغذية والصحة اليومية لازم تكون أسهل في الفهم والتذكر والنقاش الحقيقي.":"Ilama Bloom was created around a simple idea: everyday nutrition and health information should be easier to understand, remember and bring into real conversations."}</p><div className="aboutFlow"><span><b>01</b>{ar?"افهم":"Understand"}</span><i>{ar?"←":"→"}</i><span><b>02</b>{ar?"افتكر":"Remember"}</span><i>{ar?"←":"→"}</i><span><b>03</b>{ar?"ناقش":"Discuss"}</span></div></div><div className="founderCard"><div className="founderPortrait"><img src="/dina-hassan-about.webp?v=2" alt="Dr. Dina Hassan" loading="lazy" decoding="async"/></div><div className="founderCopy"><small>{ar?"المؤسسة · الصوت الطبي":"FOUNDER · CLINICAL VOICE"}</small><h2>{ar?"د. دينا حسن":"Dr. Dina Hassan"}</h2><h3>{ar?"طبيبة أطفال وتغذية علاجية":"Pediatrician & Clinical Nutritionist"}</h3><div className="credentialPills"><span>MRCPCH</span><span>{ar?"دبلومة التغذية العلاجية · NNI":"Diploma in Clinical Nutrition · NNI"}</span></div><p>{ar?"تركيزها على التثقيف الصحي العملي والمفهوم للحياة اليومية، وتحويل المعرفة الطبية لمعلومات تقدر الأسر تستخدمها فعلًا.":"Her focus is practical, understandable health education for everyday life — translating clinical knowledge into information families can actually use."}</p><div className="founderPrinciples"><span><b>{ar?"واضح":"Clear"}</b>{ar?"لغة بسيطة أولًا":"Plain language first"}</span><span><b>{ar?"عملي":"Practical"}</b>{ar?"مبني على الحياة الحقيقية":"Built around real life"}</span><span><b>{ar?"إنساني":"Human"}</b>{ar?"السياق قبل الحكم":"Context before judgement"}</span></div></div></div></section>}
 
 
